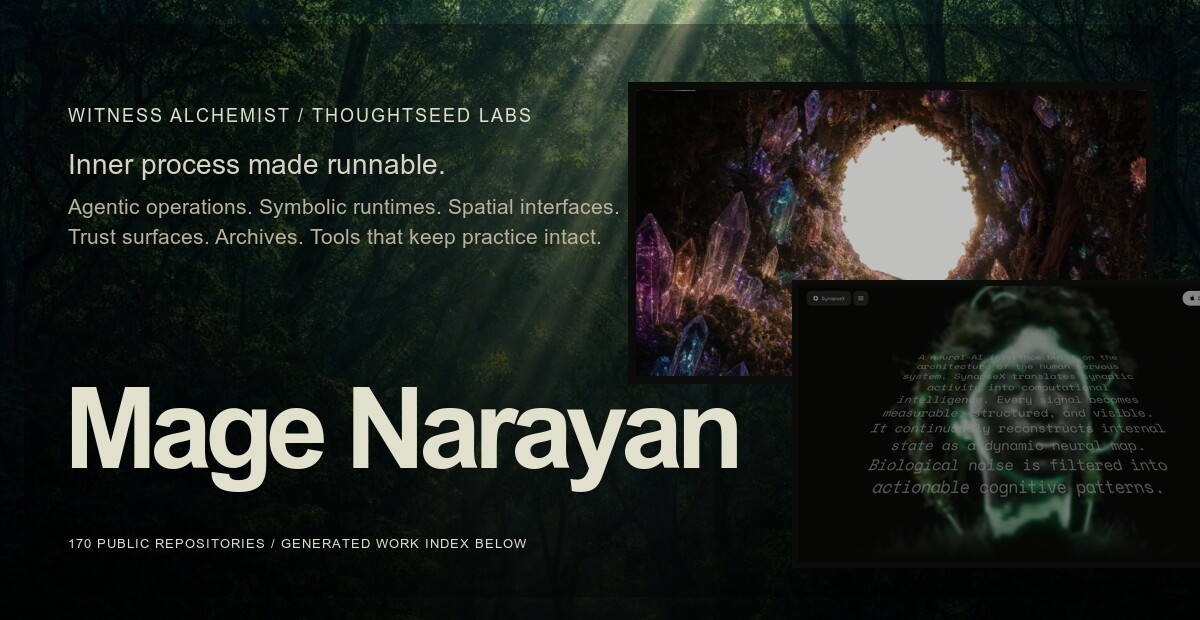
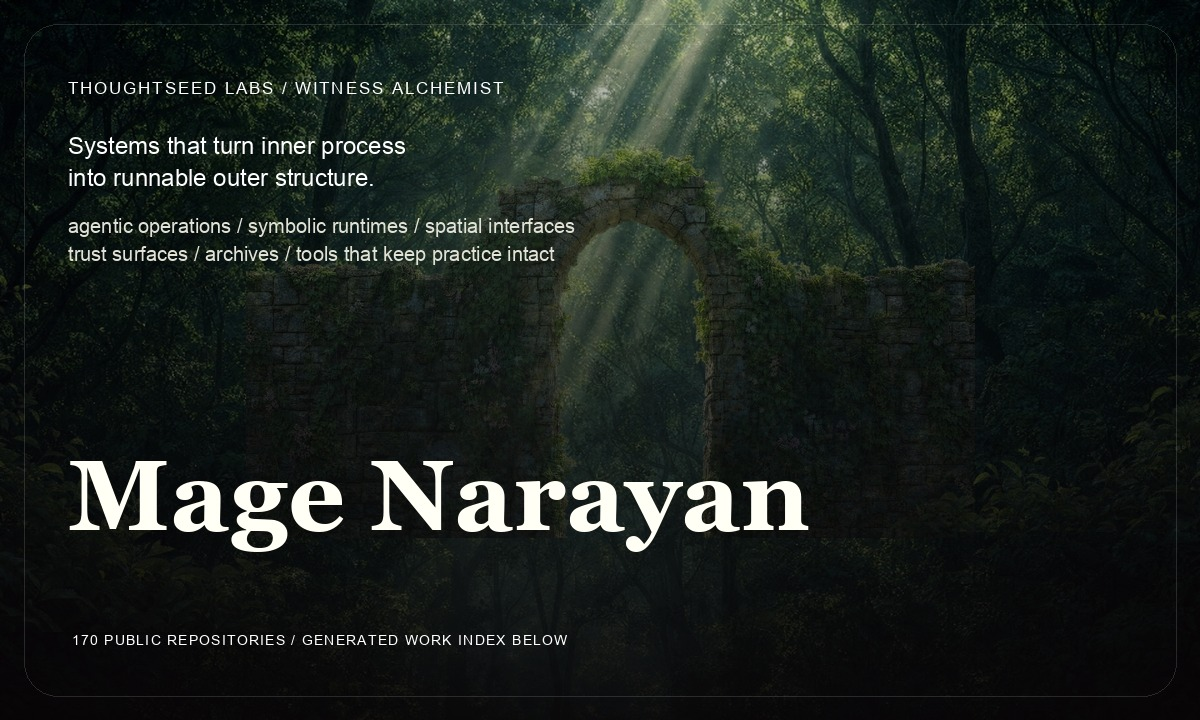
Rebuild README from mythic template
Use the motionsites mythic-naturecore template as a coherent static README landing page with matching hero, reel, and section structure instead of mixed visual assets.

diff --git a/README.md b/README.md
@@ -1,32 +1,32 @@
 <img src="assets/banner.jpg" alt="Mage Narayan - Witness Alchemist at Thoughtseed Labs" width="100%" />
 
 <p align="center">
-  <a href="#through-line">Through-line</a>
+  <a href="#world">World</a>
   &nbsp;/&nbsp;
-  <a href="#public-work-index">Public work index</a>
+  <a href="#rooms">Rooms</a>
   &nbsp;/&nbsp;
-  <a href="#recent-public-movement">Recent movement</a>
+  <a href="#public-work-index">Index</a>
   &nbsp;/&nbsp;
-  <a href="#build-principles">Build principles</a>
+  <a href="#build-principles">Principles</a>
   &nbsp;/&nbsp;
-  <a href="#public-signal">Signal</a>
+  <a href="#public-signal">Connect</a>
 </p>
 
 <img src="assets/divider.svg" width="100%" alt="section divider" />
 
 # Mage Narayan
 
-**Witness Alchemist at Thoughtseed Labs.** Systems for turning inner process into runnable outer structure.
+**Witness Alchemist at Thoughtseed Labs.** Systems that turn inner process into runnable outer structure.
 
-Public work spans **170 non-fork repositories**, led by TypeScript, Python, JavaScript, Astro, Shell, and Rust. The work moves between agentic operations, symbolic runtimes, spatial interfaces, trust surfaces, narrative archives, and small tools that make expert practice portable.
+Public work spans **170 non-fork repositories**, led by TypeScript, Python, JavaScript, Astro, Shell, and Rust. The surface moves through six rooms: agentic operations, symbolic runtimes, spatial interfaces, trust surfaces, narrative archives, and tools that keep practice intact.
 
 <table>
 <tr>
 <td width="58%" valign="top">
 
-### Practice
+### World
 
-Agentic product systems, brand orchestration, local operator runtimes, spatial viewers, and reflection-first computing.
+Agentic products, brand orchestration, local operator runtimes, spatial viewers, and reflection-first computing.
 
 </td>
 <td width="42%" valign="top">
@@ -41,11 +41,21 @@ TypeScript, React, Astro, Python, Rust, Cloudflare, Electron, Tauri, Raycast, sh
 
 <img src="assets/divider.svg" width="100%" alt="section divider" />
 
-## Through-line
+## World
 
 Most software ships the outer surface. The harder work is the substrate underneath: intention becoming procedure, procedure becoming interface, interface becoming repeatable work.
 
 That substrate appears here as venture operators, brand foundries, local agent runtimes, spatial real-estate systems, narrative engines, healing-marketplace tools, and reflection-first computing experiments.
+
+<img src="assets/reel.jpg" alt="Three recurring rooms: world as interface, system as ritual, archive as memory" width="100%" />
+
+## Rooms
+
+| Room | What it holds | Public evidence |
+| --- | --- | --- |
+| World as interface | Spatial systems, property viewers, portals, panorama tools. | [`vantyx`](https://github.com/Sheshiyer/vantyx), [`marina1-k`](https://github.com/Sheshiyer/marina1-k), [`newsense-spatial`](https://github.com/Sheshiyer/newsense-spatial) |
+| System as ritual | Operators, skill clusters, generated brand systems, local runtimes. | [`cambium`](https://github.com/Sheshiyer/cambium), [`brandmint-oracle-aleph`](https://github.com/Sheshiyer/brandmint-oracle-aleph), [`temperance_engine`](https://github.com/Sheshiyer/temperance_engine) |
+| Archive as memory | Narrative engines, research surfaces, symbolic vaults. | [`synchronocities-blog`](https://github.com/Sheshiyer/synchronocities-blog), [`Somatic-Canticles`](https://github.com/Sheshiyer/Somatic-Canticles), [`wtfmedia`](https://github.com/Sheshiyer/wtfmedia) |
 
 <img src="assets/atlas.svg" alt="Public work index organized by venture operations, reflection runtimes, spatial systems, trust surfaces, narrative archives, and toolmaking" width="100%" />
 
